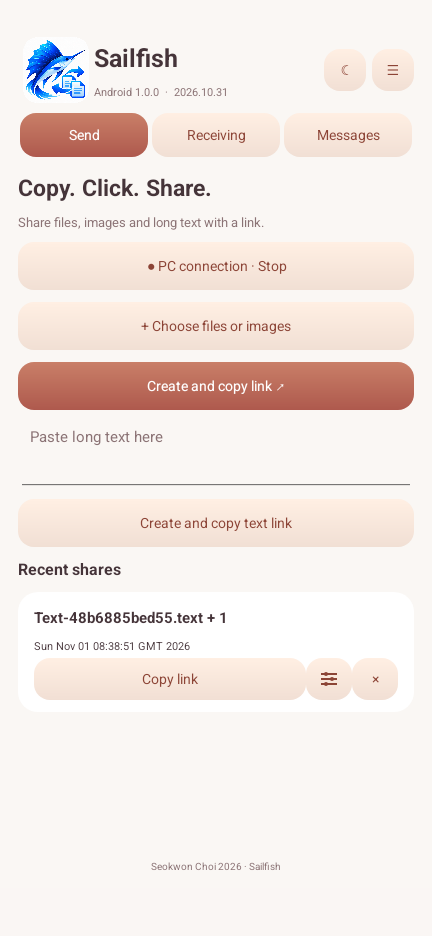
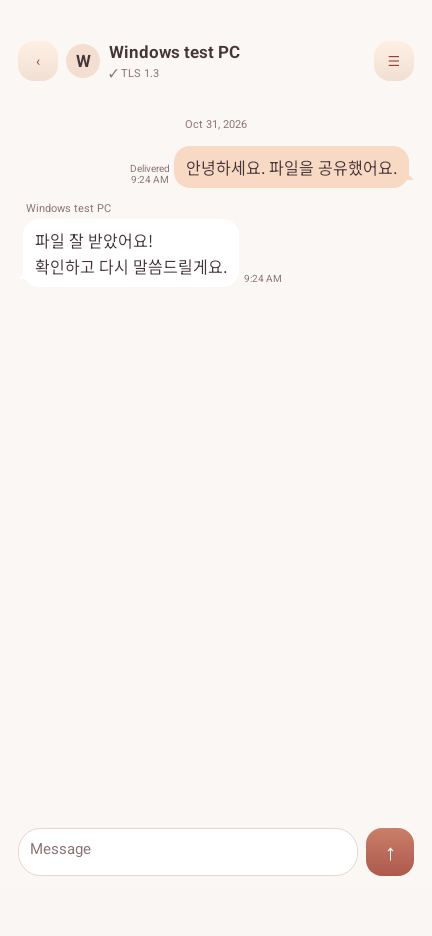
Publish Windows 1.0.4 and Android 1.0.1 messenger updates

diff --git a/index.html b/index.html
@@ -78,7 +78,7 @@
 
     <section class="section-width section-space download-section" id="download" aria-labelledby="download-heading"><div class="download-card reveal"><div class="download-main"><img class="download-logo" src="assets/sailfish-light.png" width="116" height="116" alt="Sailfish"><p class="eyebrow">SAILFISH <span id="download-version">1.0</span></p><h2 id="download-heading"><span data-ko="다음 공유부터," data-en="For your next share.">다음 공유부터,</span><br><span class="warm-text" data-ko="조금 더 가볍게." data-en="A little less friction.">조금 더 가볍게.</span></h2><p data-ko="Windows 11 x64용 Sailfish. ZIP 안의 단일 실행 파일로 시작하세요." data-en="Sailfish for Windows 11 x64. Start with a single executable inside the ZIP.">Windows 11 x64용 Sailfish. ZIP 안의 단일 실행 파일로 시작하세요.</p><a class="button button-coral download-asset" id="download-asset" aria-disabled="true"><span data-ko="배포 파일 확인 중" data-en="Checking release">배포 파일 확인 중</span><span aria-hidden="true">↓</span></a><p class="download-state" id="download-state" role="status" aria-live="polite"></p><a class="release-link" href="https://github.com/Rubiya82/sailfish-release/releases" target="_blank" rel="noopener noreferrer"><span data-ko="릴리스 목록에서 확인하기" data-en="View GitHub releases">릴리스 목록에서 확인하기</span> ↗</a></div><div class="download-side"><p class="mini-eyebrow" data-ko="알아두면 좋은 시작 안내" data-en="BEFORE YOUR FIRST SHARE">알아두면 좋은 시작 안내</p><ol class="setup-list"><li><span>1</span><div><strong data-ko="ZIP을 풀고 실행하세요." data-en="Extract the ZIP and run.">ZIP을 풀고 실행하세요.</strong><p data-ko="Windows 11 · Unicode · x64. 별도 MFC/CRT 설치 없이 단일 EXE로 실행됩니다." data-en="Windows 11 · Unicode · x64. One EXE, without a separate MFC/CRT installation.">Windows 11 · Unicode · x64. 별도 MFC/CRT 설치 없이 단일 EXE로 실행됩니다.</p></div></li><li><span>2</span><div><strong data-ko="최초 네트워크 설정을 완료하세요." data-en="Complete initial network setup.">최초 네트워크 설정을 완료하세요.</strong><p data-ko="초기 방화벽 등록에는 관리자 승인이 필요합니다. 사내 네트워크와 보안 정책이 직접 연결을 허용해야 합니다." data-en="Initial firewall registration needs administrator approval. Your intranet and security policies must allow direct connections.">초기 방화벽 등록에는 관리자 승인이 필요합니다. 사내 네트워크와 보안 정책이 직접 연결을 허용해야 합니다.</p></div></li><li><span>3</span><div><strong data-ko="복사하고, 클릭하고, 붙여넣으세요." data-en="Copy, click, and paste.">복사하고, 클릭하고, 붙여넣으세요.</strong><p data-ko="보내는 PC가 켜져 있어야 링크를 사용할 수 있어요. 양쪽 앱을 실행하면 프로그램 간 수신과 메시지도 연결됩니다." data-en="The sender must stay online for the link to work. Run both apps for native reception and messages.">보내는 PC가 켜져 있어야 링크를 사용할 수 있어요. 양쪽 앱을 실행하면 프로그램 간 수신과 메시지도 연결됩니다.</p></div></li></ol><div class="release-meta" id="release-meta" hidden><div><span data-ko="버전" data-en="Version">버전</span><strong id="meta-version"></strong></div><div><span data-ko="배포일" data-en="Published">배포일</span><strong id="meta-date"></strong></div><div><span data-ko="ZIP 크기" data-en="ZIP size">ZIP 크기</span><strong id="meta-size"></strong></div><details><summary>SHA-256</summary><code id="meta-sha"></code></details><details><summary data-ko="이번 버전 변경 내용" data-en="Release notes">이번 버전 변경 내용</summary><p id="meta-notes"></p></details></div></div></div></section>
 
-    <section class="section-width section-space" id="android"><div class="android-release reveal"><div><p class="eyebrow">SAILFISH ANDROID · 1.0.0</p><h2 data-ko="휴대폰에서도, 같은 흐름으로." data-en="The same flow. Now on your phone.">휴대폰에서도, 같은 흐름으로.</h2><p data-ko="공유 메뉴에서 파일과 이미지를 전하고, Windows와 암호화 메시지를 이어가세요. PC와 같은 Sailfish 아이콘, 편안한 라이트·다크 테마를 담았습니다." data-en="Share files and images from your phone, and keep talking with Windows over encrypted messages. The same Sailfish icon, with comfortable light and dark themes.">공유 메뉴에서 파일과 이미지를 전하고, Windows와 암호화 메시지를 이어가세요. PC와 같은 Sailfish 아이콘, 편안한 라이트·다크 테마를 담았습니다.</p><p data-ko="Android 10 이상 · APK 직접 설치 · 한글/영어 · 무료" data-en="Android 10+ · direct APK install · Korean/English · free">Android 10 이상 · APK 직접 설치 · 한글/영어 · 무료</p><a class="button button-coral" href="https://github.com/Rubiya82/sailfish-release/releases/download/android-v1.0.0/Sailfish-1.0.0-android.apk" data-ko="Android APK 다운로드 ↓" data-en="Download Android APK ↓">Android APK 다운로드 ↓</a><p><a class="text-link" href="https://github.com/Rubiya82/sailfish-release/releases/tag/android-v1.0.0" data-ko="릴리스·검증 정보 ↗" data-en="Release & verification details ↗">릴리스·검증 정보 ↗</a></p><p class="small-note" data-ko="앱 업데이트도 같은 서명키로 제공됩니다. 다운로드·검증 후 Android 설치 화면에서 승인하세요. 양쪽 기기가 연결 가능한 네트워크가 필요합니다." data-en="Updates keep the same app signer. Download and verify, then approve the Android installer. Both devices need a reachable network connection.">앱 업데이트도 같은 서명키로 제공됩니다. 다운로드·검증 후 Android 설치 화면에서 승인하세요. 양쪽 기기가 연결 가능한 네트워크가 필요합니다.</p></div><img src="assets/android-preview.png" alt="Sailfish Android 1.0.0" width="432" height="936" loading="lazy"></div></section>
+    <section class="section-width section-space" id="android"><div class="android-release reveal"><div><p class="eyebrow">SAILFISH ANDROID · 1.0.1</p><h2 data-ko="휴대폰에서도, 같은 흐름으로." data-en="The same flow. Now on your phone.">휴대폰에서도, 같은 흐름으로.</h2><p data-ko="공유 메뉴에서 파일과 이미지를 전하고, Windows와 암호화 메시지를 이어가세요. PC와 같은 Sailfish 아이콘, 편안한 라이트·다크 테마를 담았습니다." data-en="Share files and images from your phone, and keep talking with Windows over encrypted messages. The same Sailfish icon, with comfortable light and dark themes.">공유 메뉴에서 파일과 이미지를 전하고, Windows와 암호화 메시지를 이어가세요. PC와 같은 Sailfish 아이콘, 편안한 라이트·다크 테마를 담았습니다.</p><p data-ko="Android 10 이상 · APK 직접 설치 · 한글/영어 · 무료" data-en="Android 10+ · direct APK install · Korean/English · free">Android 10 이상 · APK 직접 설치 · 한글/영어 · 무료</p><a class="button button-coral" href="https://github.com/Rubiya82/sailfish-release/releases/download/android-v1.0.1/Sailfish-1.0.1-android.apk" data-ko="Android APK 다운로드 ↓" data-en="Download Android APK ↓">Android APK 다운로드 ↓</a><p><a class="text-link" href="https://github.com/Rubiya82/sailfish-release/releases/tag/android-v1.0.1" data-ko="릴리스·검증 정보 ↗" data-en="Release & verification details ↗">릴리스·검증 정보 ↗</a></p><p class="small-note" data-ko="앱 업데이트도 같은 서명키로 제공됩니다. 다운로드·검증 후 Android 설치 화면에서 승인하세요. 양쪽 기기가 연결 가능한 네트워크가 필요합니다." data-en="Updates keep the same app signer. Download and verify, then approve the Android installer. Both devices need a reachable network connection.">앱 업데이트도 같은 서명키로 제공됩니다. 다운로드·검증 후 Android 설치 화면에서 승인하세요. 양쪽 기기가 연결 가능한 네트워크가 필요합니다.</p></div><img src="assets/android-preview.png" alt="Sailfish Android 1.0.1 · 메시지 말풍선 / Chat bubbles" width="432" height="936" loading="lazy"></div></section>
     <section class="section-width section-space faq-section" id="questions"><div class="section-heading reveal"><div><p class="eyebrow" data-ko="시작하기 전에" data-en="GOOD TO KNOW">시작하기 전에</p><h2 data-ko="궁금했던 것들." data-en="A few good questions.">궁금했던 것들.</h2></div></div><div class="faq-list reveal"><details><summary data-ko="상대방도 Sailfish가 있어야 하나요?" data-en="Does the recipient need Sailfish too?">상대방도 Sailfish가 있어야 하나요?</summary><p data-ko="파일, 이미지, 텍스트 공유 링크는 브라우저로 열고 내려받을 수 있습니다. 프로그램 간 병렬 수신과 1:1 메시지를 사용하려면 양쪽에 Sailfish가 실행 중이어야 합니다." data-en="Recipients can open and download file, image and text links in a browser. Native parallel reception and one-to-one messages require Sailfish running on both PCs.">파일, 이미지, 텍스트 공유 링크는 브라우저로 열고 내려받을 수 있습니다. 프로그램 간 병렬 수신과 1:1 메시지를 사용하려면 양쪽에 Sailfish가 실행 중이어야 합니다.</p></details><details><summary data-ko="인터넷 어디에서나 받을 수 있나요?" data-en="Can I receive a share from anywhere on the internet?">인터넷 어디에서나 받을 수 있나요?</summary><p data-ko="Sailfish는 서로 직접 연결 가능한 인트라넷 환경을 전제로 합니다. 라우팅, 방화벽, VPN, 보안 정책에 따라 접근이 제한될 수 있으며 인터넷 중계 서버는 제공하지 않습니다. 보내는 PC와 프로그램은 실행 중이어야 합니다." data-en="Sailfish assumes a directly reachable intranet. Routing, firewalls, VPNs and security policies may limit access. There is no internet relay server. The sender's PC and application must remain running.">Sailfish는 서로 직접 연결 가능한 인트라넷 환경을 전제로 합니다. 라우팅, 방화벽, VPN, 보안 정책에 따라 접근이 제한될 수 있으며 인터넷 중계 서버는 제공하지 않습니다. 보내는 PC와 프로그램은 실행 중이어야 합니다.</p></details><details><summary data-ko="자료를 외부 서버에 업로드하나요?" data-en="Are my shared files uploaded to a third-party server?">자료를 외부 서버에 업로드하나요?</summary><p data-ko="파일 공유는 보내는 PC에서 받는 쪽으로 직접 진행합니다. 캡처와 텍스트 공유용 임시 파일 및 메시지 기록은 로컬 사용자 폴더에 저장됩니다. GitHub는 프로그램 배포·업데이트와 이 소개 페이지에 사용됩니다." data-en="Sharing transfers data directly from the sending PC to the recipient. Temporary capture/text files and message history are stored in the local user folder. GitHub is used for software distribution, updates and this introduction page.">파일 공유는 보내는 PC에서 받는 쪽으로 직접 진행합니다. 캡처와 텍스트 공유용 임시 파일 및 메시지 기록은 로컬 사용자 폴더에 저장됩니다. GitHub는 프로그램 배포·업데이트와 이 소개 페이지에 사용됩니다.</p></details><details><summary data-ko="공유 링크와 메시지는 암호화되나요?" data-en="Are file links and messages encrypted?">공유 링크와 메시지는 암호화되나요?</summary><p data-ko="현재 인트라넷 파일 공유는 HTTP이며 메시지와 로컬 대화 기록도 평문입니다. 신뢰할 수 있고 정책상 허용된 네트워크에서 사용하세요. 파일 다운로드 횟수와 만료·삭제 기능은 제공하지만, 비밀번호나 AD 사용자 인증을 대신하지는 않습니다." data-en="Intranet file sharing currently uses HTTP; messages and local conversation records are also plaintext. Use a trusted network permitted by your policies. Download limits, expiry and revocation do not replace passwords or AD user authentication.">현재 인트라넷 파일 공유는 HTTP이며 메시지와 로컬 대화 기록도 평문입니다. 신뢰할 수 있고 정책상 허용된 네트워크에서 사용하세요. 파일 다운로드 횟수와 만료·삭제 기능은 제공하지만, 비밀번호나 AD 사용자 인증을 대신하지는 않습니다.</p></details><details><summary data-ko="클립보드를 매번 감시해야 하나요?" data-en="Do I have to keep clipboard monitoring on?">클립보드를 매번 감시해야 하나요?</summary><p data-ko="현재 실행 중에는 Ctrl+Alt+S 또는 상단 스위치로 끌 수 있습니다. 다시 시작하면 항상 ON입니다. 감시 OFF 상태에서도 파일 드롭, 파일 선택과 사용자가 켠 빠른 링크 기능은 사용할 수 있습니다." data-en="Turn it off for the current run with Ctrl+Alt+S or the top switch. Each new launch starts ON. Dropping files, choosing files, and enabled Quick link remain available with monitoring off.">현재 실행 중에는 Ctrl+Alt+S 또는 상단 스위치로 끌 수 있습니다. 다시 시작하면 항상 ON입니다. 감시 OFF 상태에서도 파일 드롭, 파일 선택과 사용자가 켠 빠른 링크 기능은 사용할 수 있습니다.</p></details><details><summary data-ko="수신 거부하면 파일 공유도 막히나요?" data-en="Does blocking messages also block shared files?">수신 거부하면 파일 공유도 막히나요?</summary><p data-ko="메시지 수신 거부와 파일 공유 권한은 별개입니다. 공유 링크를 더 이상 사용하지 못하게 하려면 공유 목록에서 해당 링크를 삭제하세요. 이미 시작한 전송은 완료할 수 있습니다." data-en="Message refusal and file-sharing permissions are separate. To stop new downloads through a link, revoke it from the share list. Transfers already admitted may finish.">메시지 수신 거부와 파일 공유 권한은 별개입니다. 공유 링크를 더 이상 사용하지 못하게 하려면 공유 목록에서 해당 링크를 삭제하세요. 이미 시작한 전송은 완료할 수 있습니다.</p></details></div></section>
 
     <section class="policy-section" id="policy"><div class="section-width policy-layout"><div class="reveal"><p class="eyebrow" data-ko="오래 편안하게 쓰기 위한 약속" data-en="A thoughtful way to stay current">오래 편안하게 쓰기 위한 약속</p><h2 data-ko="배포는 명확하게.\n업데이트는 내 시간에." data-en="Clear releases.\nUpdates on your time.">배포는 명확하게.<br>업데이트는 내 시간에.</h2></div><div class="policy-items reveal"><article><span>01</span><div><h3 data-ko="공식 릴리스에서 내려받기" data-en="Download an official release">공식 릴리스에서 내려받기</h3><p data-ko="공개 릴리스 저장소의 ZIP과 버전 정보가 배포 기준입니다. 릴리스와 검증 정보가 준비된 후 다운로드를 안내하며, 같은 버전의 파일을 조용히 바꾸지 않습니다." data-en="The public release ZIP and version metadata define a release. Download becomes available after the asset and verification metadata are ready. Files are not silently replaced under the same version.">공개 릴리스 저장소의 ZIP과 버전 정보가 배포 기준입니다. 릴리스와 검증 정보가 준비된 후 다운로드를 안내하며, 같은 버전의 파일을 조용히 바꾸지 않습니다.</p></div></article><article><span>02</span><div><h3 data-ko="새 버전이 있으면 알려드려요" data-en="A clear notice when a version is ready">새 버전이 있으면 알려드려요</h3><p data-ko="시작 시와 4시간마다 새 버전을 확인합니다. 알림을 눌러 ZIP을 받은 뒤 바로 또는 실제 종료 시 적용을 선택하세요. 트레이로 숨기는 것은 종료가 아닙니다." data-en="The app checks version metadata at startup and periodically. Select the update notice to choose downloading and when to apply it: now or when exiting.">시작 시와 4시간마다 새 버전을 확인합니다. 알림을 눌러 ZIP을 받은 뒤 바로 또는 실제 종료 시 적용을 선택하세요. 트레이로 숨기는 것은 종료가 아닙니다.</p></div></article><article><span>03</span><div><h3 data-ko="설정과 사용자 자료는 따로" data-en="Keep your data separate">설정과 사용자 자료는 따로</h3><p data-ko="프로그램 교체와 로컬 설정·대화·수신 자료는 구분합니다. 업데이트 정책과 릴리스 변경 내용을 확인한 뒤 적용할 수 있습니다." data-en="Program replacement is separate from local settings, conversations and received files. Review the update policy and release notes before applying an update.">프로그램 교체와 로컬 설정·대화·수신 자료는 구분합니다. 업데이트 정책과 릴리스 변경 내용을 확인한 뒤 적용할 수 있습니다.</p></div></article></div></div></section>

diff --git a/README.md b/README.md
@@ -14,10 +14,12 @@ This public repository hosts the product website, release assets, signed `versio
 - Direct peer messages, contact aliases and receive refusal.
 - User-controlled verified updates: download first, then update now or at actual quit.
 
-Intranet routing must allow direct connections. Senders must remain online. Current file sharing uses HTTP and messages are plaintext. See the [release and update policy](https://rubiya82.github.io/sailfish-release/policy.html).
+Intranet routing must allow direct connections. Senders must remain online. File sharing uses HTTP; peer messages use mutually authenticated TLS 1.3 after both users verify the matching code. See the [release and update policy](https://rubiya82.github.io/sailfish-release/policy.html).
 
 Seokwon Choi 2026. Third-party notices: [JSON](licenses/JSON-LICENSE.txt), [miniz](licenses/MINIZ-LICENSE.txt).
 
 From 1.0.1: TLS 1.3 peer messages with mutual device certificates and an explicit first-contact verification code. Both peers must update and approve the matching code. Local records use current-user DPAPI and device private keys stay nonexportable in Windows CNG. File sharing remains HTTP.
 
 Android: separately signed release APKs use `android-v<version>` tags and `android/version.json`. Same-signer increasing-versionCode updates preserve app data and require Android installer approval. The Windows update manifest stays separate.
+
+Windows 1.0.4 / Android 1.0.1: left/right conversation bubbles, message timestamps and delivery state, compact conversation controls and a fixed composer. Windows client fonts use fixed 96-DPI pixel sizes to avoid text-only growth at 125% display scaling.
